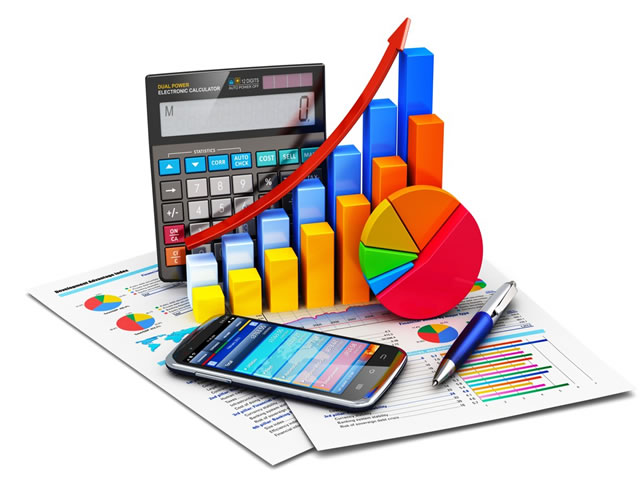
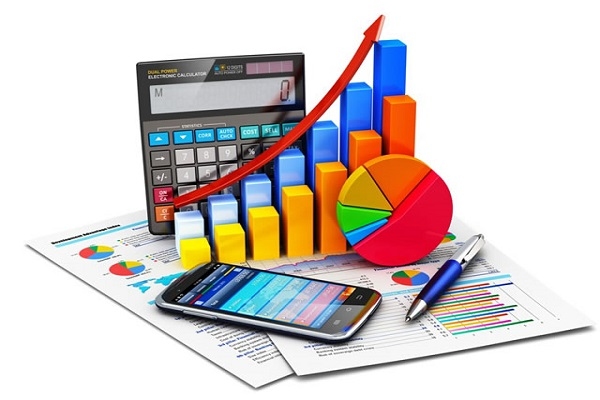
trancision al navbar

diff --git a/personalcss/styles.css b/personalcss/styles.css
@@ -69,9 +69,20 @@
   font-size: 1rem;
   font-weight: 700;
 }
+.bg-light li a{
+  transition: 1.5s ease;
+ 		-moz-transition: 1.5s ease; /* Firefox */
+ 		-webkit-transition: 1.5s ease; /* Chrome - Safari */
+ 		-o-transition: 1.5s ease; /* Opera */
+}
 .bg-light li a:hover{
 
   background: rgb(58, 2, 2);
+  transform : scale(2);
+  -moz-transform : scale(1.5); /* Firefox */
+  -webkit-transform : scale(1.5); /* Chrome - Safari */
+  -o-transform : scale(1.5); /* Opera */
+  -ms-transform : scale(1.5); /* IE9 */
 }
 
 /*************** MODIFICACIONES CONTAINER BOOTSTRAP  ***************/
@@ -153,7 +164,7 @@
 }
 .container {
   display: flex;
-  width: 80vw;
+  width: 100vw;
  
 }
 .row .container__figure {
@@ -164,7 +175,7 @@
 }
 .container__parrafos{
   margin: 1rem;
-
+width: 90%;
 }
 .container__parrafos p{
   font-family: Arial, Helvetica, sans-serif;

diff --git a/index.html b/index.html
@@ -138,7 +138,7 @@
 
             <div class="row">
                 <div class="container__figure">
-                    <figure><img src="./img/c3.jpg" alt="">
+                    <figure><img src="./img/cfi.png" alt="">
                         <div class="titles">
                             <h2> Contabilidad Financiera</h2>
                         </div>
